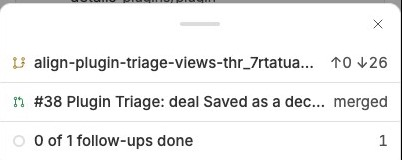
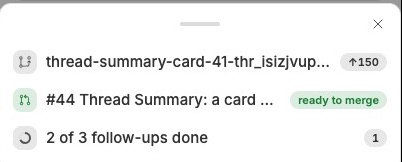
Retake Thread Summary's screenshots for the glass panel
The desktop card in light and in dark, and the phone drawer with the same
lines on bb's sheet, from a live bb 0.45 run of this branch.

diff --git a/plugins/thread-summary/README.md b/plugins/thread-summary/README.md
@@ -24,11 +24,13 @@ and `bb plugin update` follows it.
 
 ## What it does
 
-![The card: Git behind main, the merged pull request and Follow Up's ring](screenshots/desktop-card.jpg)
+![The card, light: Git, the pull request's running checks and Follow Up's ring](screenshots/desktop-card.jpg)
+
+![The same card in bb's dark theme](screenshots/desktop-card-dark.jpg)
 
 The `screenshots/` directory holds the frames for a store listing, taken from a
-live bb 0.45 window: the desktop card, the phone header with its dot in place
-of chips, and the phone drawer.
+live bb 0.45 window: the desktop card in light and dark, the phone header with
+its dot in place of chips, and the phone drawer.
 
 ### The card
 
